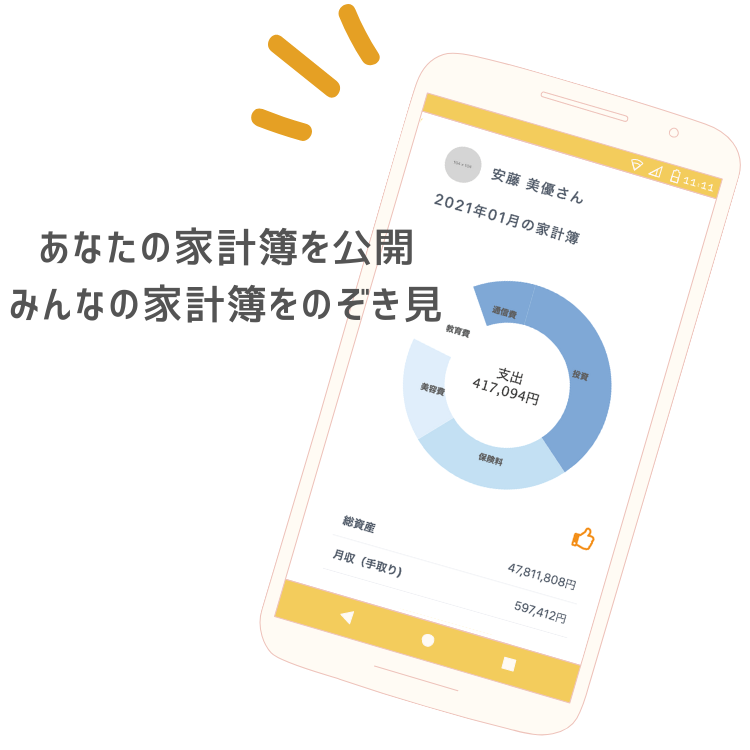
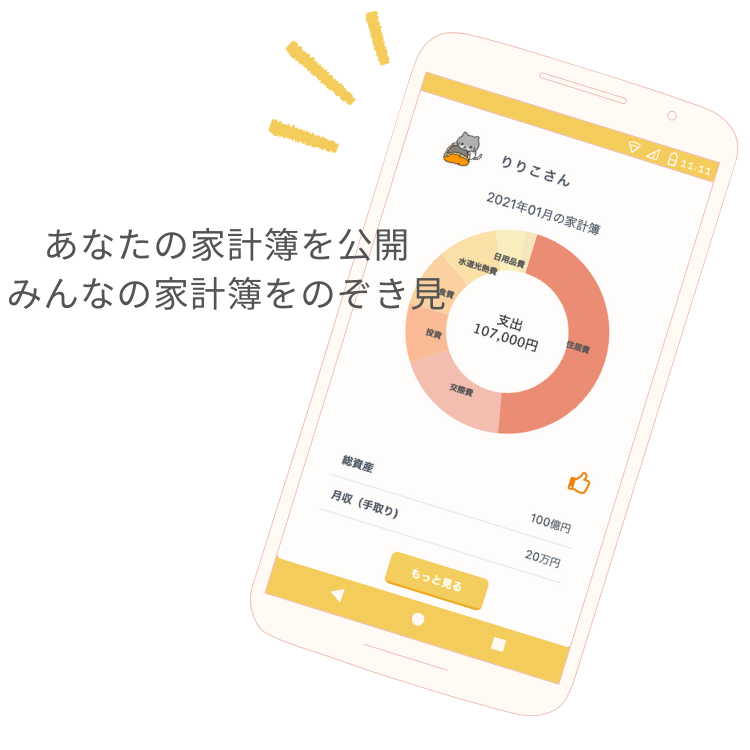
Update: 見た目部分の改良

diff --git a/app/assets/stylesheets/application.scss b/app/assets/stylesheets/application.scss
@@ -20,9 +20,5 @@ $fa-font-path: '@fortawesome/fontawesome-free/webfonts';
 @import '@fortawesome/fontawesome-free/scss/regular';
 @import '@fortawesome/fontawesome-free/scss/solid';
 @import '@fortawesome/fontawesome-free/scss/brands';
-
 @import 'bootstrap/scss/bootstrap';
-
-.breadcrumb {
-  background-color: #F9F8F4;
-}
+@import 'over-bootstrap';

diff --git a/app/javascript/css/tailwind.scss b/app/javascript/css/tailwind.scss
@@ -62,7 +62,7 @@
   @apply m-2;
   @apply rounded-full;
   @apply text-white;
-  @apply font-bold;
+  @apply font-light;
   @apply text-base;
 
   &:active {
@@ -86,7 +86,7 @@
   @apply m-2;
   @apply rounded-full;
   @apply text-carrot-800;
-  @apply font-bold;
+  @apply font-light;
   @apply text-base;
 
   &:active {

diff --git a/app/assets/stylesheets/over-bootstrap.scss b/app/assets/stylesheets/over-bootstrap.scss
@@ -1,0 +1,6 @@
+// Bootstrap上書き用。一番最後に読み込む
+
+.breadcrumb {
+  background-color: #F9F8F4;
+  font-weight: 300;
+}

diff --git a/app/models/user_profile.rb b/app/models/user_profile.rb
@@ -3,7 +3,7 @@ class UserProfile < ApplicationRecord
 
   validates :job, length: { maximum: 20 }
   validates :message, length: { maximum: 144 }
-  validates :total_assets, numericality: { only_integer: true, less_than: 9_999_999_999, allow_blank: true }
+  validates :total_assets, numericality: { only_integer: true, less_than: 99_999_999_999, allow_blank: true }
   validates :annual_income, numericality: { only_integer: true, greater_than: 0, less_than: 999_999_999, allow_blank: true }
   validates :monthly_income, numericality: { only_integer: true, greater_than: 0, less_than: 999_999_999, allow_blank: true }
 

diff --git a/app/controllers/account_books_controller.rb b/app/controllers/account_books_controller.rb
@@ -58,8 +58,9 @@ class AccountBooksController < ApplicationController
 
   def likes
     @q = current_user.like_account_books.ransack(params[:q])
-    @account_books = @q.result.includes([{ user: :user_profile }, :expenses, :likes])
-                       .joins([{ user: :user_profile }, :expenses])
+    @account_books = @q.result
+                       .includes([:likes, { user: %i[user_profile avator_attachment] }])
+                       .order(created_at: :desc)
                        .page(params[:page])
   end
 

diff --git a/config/initializers/kaminari_config.rb b/config/initializers/kaminari_config.rb
@@ -1,7 +1,7 @@
 # frozen_string_literal: true
 
 Kaminari.configure do |config|
-  config.default_per_page = 9
+  config.default_per_page = 10
   # config.max_per_page = nil
   config.window = 2
   # config.outer_window = 0
